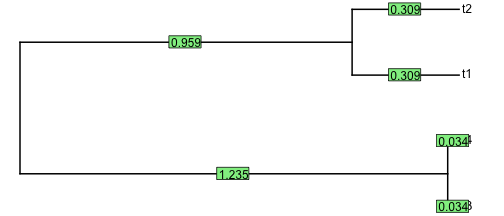
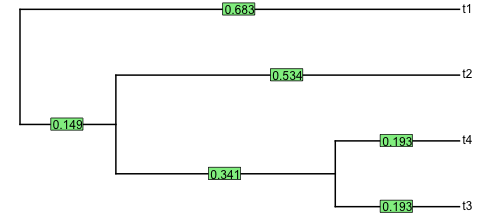
fix fig in lecture 6?

diff --git a/GMcourse/Lectures/06-ShapeStatistics1.html b/GMcourse/Lectures/06-ShapeStatistics1.html
@@ -266,8 +266,8 @@ PCA$rot[, 1:5]
 ```
 
 
-<div class="datatables html-widget html-fill-item-overflow-hidden html-fill-item" id="htmlwidget-eb600cbf8287e69933ad" style="width:100%;height:auto;"></div>
-<script type="application/json" data-for="htmlwidget-eb600cbf8287e69933ad">{"x":{"filter":"none","vertical":false,"fillContainer":false,"data":[["1.X","1.Y","2.X","2.Y","3.X","3.Y","4.X","4.Y","5.X","5.Y","6.X","6.Y","7.X","7.Y","8.X","8.Y","9.X","9.Y","10.X","10.Y","11.X","11.Y","12.X","12.Y"],[-0.18519,0.05405,-0.25751,0.12104,0.24555,0.08671,0.01913,0.01574,0.03013,-0.06,0.03942,-0.07298,-0.03292,-0.15883,-0.07436,-0.02267,-0.1294,0.14563,-0.14615,0.04686,0.78142,-0.05272,-0.29012,-0.10285],[0.44578,0.26015,0.14487,0.35368,0.06079,0.15116,-0.00471,-0.10675,-0.04475,-0.10706,-0.02427,-0.16916,-0.14499,-0.08201,-0.0491,-0.01583,0.0163,0.10257,0.07706,0.13217,-0.18989,0.04808,-0.28709,-0.56701],[0.22986,-0.08275,0.21506,0.10056,0.32681,0.00228,-0.20322,0.35931,-0.19877,0.15439,-0.17122,0.00981,-0.21542,-0.18189,0.06254,-0.16576,0.18179,-0.23899,0.07886,-0.13614,0.01087,-0.20317,-0.31717,0.38235],[-0.26247,0.11272,-0.01087,0.46841,0.47658,-0.04908,-0.11434,-0.00444,-0.05717,0.12899,0.1062,0.0582,0.08944,0.01527,-0.1435,-0.17252,-0.17443,-0.1315,-0.16718,-0.21664,-0.17314,-0.06654,0.43089,-0.14288],[-0.16719,0.22104,0.02176,-0.25447,0.44786,0.02916,-0.0437,-0.44113,-0.16144,-0.22846,-0.05394,0.14802,0.0188,0.27939,-0.08595,0.08478,0.38216,0.11626,-0.05794,0.12139,-0.12552,-0.17414,-0.1749,0.09816]],"container":"<table class=\"display\">\n  <thead>\n    <tr>\n      <th> <\/th>\n      <th>Comp1<\/th>\n      <th>Comp2<\/th>\n      <th>Comp3<\/th>\n      <th>Comp4<\/th>\n      <th>Comp5<\/th>\n    <\/tr>\n  <\/thead>\n<\/table>","options":{"pageLength":3,"columnDefs":[{"className":"dt-right","targets":[1,2,3,4,5]},{"orderable":false,"targets":0}],"order":[],"autoWidth":false,"orderClasses":false,"lengthMenu":[3,10,25,50,100]}},"evals":[],"jsHooks":[]}</script>
+<div class="datatables html-widget html-fill-item-overflow-hidden html-fill-item" id="htmlwidget-dd974e27b34c29bb3905" style="width:100%;height:auto;"></div>
+<script type="application/json" data-for="htmlwidget-dd974e27b34c29bb3905">{"x":{"filter":"none","vertical":false,"fillContainer":false,"data":[["1.X","1.Y","2.X","2.Y","3.X","3.Y","4.X","4.Y","5.X","5.Y","6.X","6.Y","7.X","7.Y","8.X","8.Y","9.X","9.Y","10.X","10.Y","11.X","11.Y","12.X","12.Y"],[-0.18519,0.05405,-0.25751,0.12104,0.24555,0.08671,0.01913,0.01574,0.03013,-0.06,0.03942,-0.07298,-0.03292,-0.15883,-0.07436,-0.02267,-0.1294,0.14563,-0.14615,0.04686,0.78142,-0.05272,-0.29012,-0.10285],[0.44578,0.26015,0.14487,0.35368,0.06079,0.15116,-0.00471,-0.10675,-0.04475,-0.10706,-0.02427,-0.16916,-0.14499,-0.08201,-0.0491,-0.01583,0.0163,0.10257,0.07706,0.13217,-0.18989,0.04808,-0.28709,-0.56701],[0.22986,-0.08275,0.21506,0.10056,0.32681,0.00228,-0.20322,0.35931,-0.19877,0.15439,-0.17122,0.00981,-0.21542,-0.18189,0.06254,-0.16576,0.18179,-0.23899,0.07886,-0.13614,0.01087,-0.20317,-0.31717,0.38235],[-0.26247,0.11272,-0.01087,0.46841,0.47658,-0.04908,-0.11434,-0.00444,-0.05717,0.12899,0.1062,0.0582,0.08944,0.01527,-0.1435,-0.17252,-0.17443,-0.1315,-0.16718,-0.21664,-0.17314,-0.06654,0.43089,-0.14288],[-0.16719,0.22104,0.02176,-0.25447,0.44786,0.02916,-0.0437,-0.44113,-0.16144,-0.22846,-0.05394,0.14802,0.0188,0.27939,-0.08595,0.08478,0.38216,0.11626,-0.05794,0.12139,-0.12552,-0.17414,-0.1749,0.09816]],"container":"<table class=\"display\">\n  <thead>\n    <tr>\n      <th> <\/th>\n      <th>Comp1<\/th>\n      <th>Comp2<\/th>\n      <th>Comp3<\/th>\n      <th>Comp4<\/th>\n      <th>Comp5<\/th>\n    <\/tr>\n  <\/thead>\n<\/table>","options":{"pageLength":3,"columnDefs":[{"className":"dt-right","targets":[1,2,3,4,5]},{"orderable":false,"targets":0}],"order":[],"autoWidth":false,"orderClasses":false,"lengthMenu":[3,10,25,50,100]}},"evals":[],"jsHooks":[]}</script>
 ]
 
 ---
@@ -1175,11 +1175,11 @@ is an analysis that finds phylogenetically aligned components of the data (most 
 **Covariance matrix**
 
 ```
-##       t3    t4    t1    t2
-## t3 1.269 1.235 0.000 0.000
-## t4 1.235 1.269 0.000 0.000
-## t1 0.000 0.000 1.268 0.959
-## t2 0.000 0.000 0.959 1.268
+##       t3    t4    t2    t1
+## t3 0.683 0.490 0.149 0.000
+## t4 0.490 0.683 0.149 0.000
+## t2 0.149 0.149 0.683 0.000
+## t1 0.000 0.000 0.000 0.683
 ```
 ]
 
